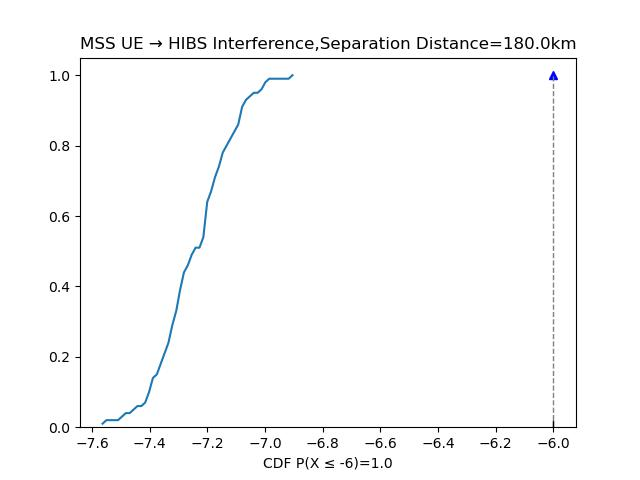
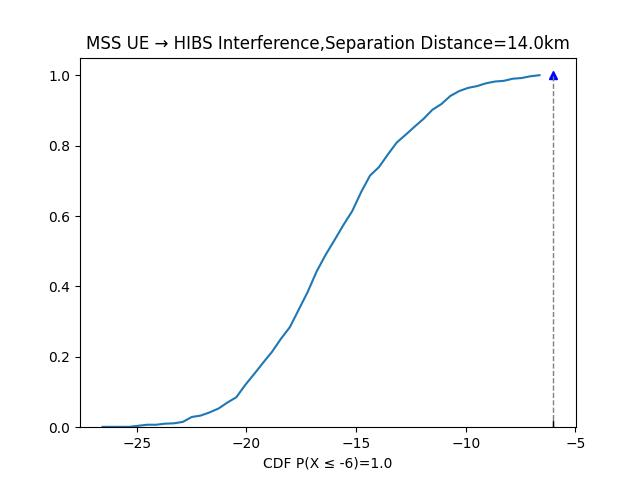
更新议题1.12仿真

diff --git a/MSS_UE_to_IMT_UE_Interference.py b/MSS_UE_to_IMT_UE_Interference.py
@@ -1,0 +1,188 @@
+import numpy as np
+import matplotlib.pyplot as plt
+
+
+plt.rcParams['font.sans-serif'] = ['SimHei', 'Microsoft YaHei', 'WenQuanYi Zen Hei', 'Arial Unicode MS']  # 中文字体
+plt.rcParams['axes.unicode_minus'] = False
+# ================= 参数配置（同前） =================
+NUM_MSS_USERS = 1
+R_AREA = 8.7
+FREQ_GHZ = 2.0
+NOISE_DENSITY_DBM = -111.0
+BANDWIDTH_MHZ = 1.0
+NOISE_FLOOR = NOISE_DENSITY_DBM + 10 * np.log10(BANDWIDTH_MHZ)
+TARGET_IN_RATIO_DB = -6.0
+MAX_ITERATIONS = 500
+STEP_SIZE_KM_INIT = 0.8
+STEP_DECAY = 0.98
+
+MSS_TX_POWER_DBM = 33.4
+MSS_ANT_GAIN_DB = -0
+IMT_RX_ANT_GAIN_DB = -3.0
+BODY_LOSS_DB = 4.0
+CABLE_LOSS_DB = 0.0
+
+RANDOM_SEED = 42
+np.random.seed(RANDOM_SEED)
+
+# ================= 传播模型（同前） =================
+def free_space_path_loss(d_km, f_ghz):
+    f_mhz = f_ghz * 1000
+    if d_km < 0.001:
+        d_km = 0.001
+    return 32.44 + 20 * np.log10(d_km) + 20 * np.log10(f_mhz)
+
+def clutter_loss(f_ghz, p, d_km):
+    return 10 + 0.5 * f_ghz + 2 * np.log10(max(d_km, 0.01))
+
+def calculate_single_interference(dist_km):
+    pl = free_space_path_loss(dist_km, FREQ_GHZ)
+    cl = clutter_loss(FREQ_GHZ, 0.5, dist_km)
+    return (MSS_TX_POWER_DBM + MSS_ANT_GAIN_DB + IMT_RX_ANT_GAIN_DB
+            - pl - cl - BODY_LOSS_DB - CABLE_LOSS_DB)
+
+# ================= 评估函数 =================
+def evaluate_position(imt_x, imt_y, n_samples=1000):
+    """
+    在给定 IMT 位置，生成 n_samples 组随机 MSS 用户，
+    返回每个样本的聚合干扰 I/N (dB)
+    """
+    in_ratios = []
+    for _ in range(n_samples):
+        # 生成一组 MSS 用户位置
+        angles = np.random.uniform(0, 2*np.pi, NUM_MSS_USERS)
+        radii = np.sqrt(np.random.uniform(0, 1, NUM_MSS_USERS)) * R_AREA
+        mss_x = radii * np.cos(angles)
+        mss_y = radii * np.sin(angles)
+        # 计算距离
+        dists = np.sqrt((mss_x - imt_x)**2 + (mss_y - imt_y)**2)
+        dists = np.maximum(dists, 0.001)
+        # 计算每个用户干扰
+        inters = [calculate_single_interference(d) for d in dists]
+        # 聚合
+        if NUM_MSS_USERS == 1:
+            total_interf = inters[0]
+        else:
+            total_interf = 10 * np.log10(np.sum(10 ** (np.array(inters)/10.0)))
+        in_ratio = total_interf - NOISE_FLOOR
+        in_ratios.append(in_ratio)
+    return np.array(in_ratios)
+
+# ================= 主仿真（鲁棒版） =================
+def run_simulation_robust():
+    print("=== MSS -> IMT 干扰仿真 (鲁棒判据：1000个样本全部达标) ===")
+    print(f"MSS用户数: {NUM_MSS_USERS}, 区域半径: {R_AREA} km")
+    print(f"噪声基底: {NOISE_FLOOR:.2f} dBm, 目标 I/N: {TARGET_IN_RATIO_DB} dB")
+
+    # 初始 IMT 位置
+    imt_x = R_AREA
+    imt_y = 0.0
+    trajectory = [(imt_x, imt_y)]
+
+    step_size = STEP_SIZE_KM_INIT
+    best_result = None   # 记录最接近达标的位置 (以防达到最大迭代)
+
+    for i in range(MAX_ITERATIONS):
+        # 评估当前位置的 1000 个样本
+        in_ratios = evaluate_position(imt_x, imt_y, n_samples=1000)
+
+        # 判断是否全部达标
+        all_pass = np.all(in_ratios <= TARGET_IN_RATIO_DB)
+        max_in = np.max(in_ratios)
+
+        if i % 20 == 0:
+            print(f"Iter {i}: pos=({imt_x:.2f}, {imt_y:.2f}), "
+                  f"max I/N={max_in:.2f} dB, pass rate={np.mean(in_ratios <= TARGET_IN_RATIO_DB)*100:.1f}%")
+
+        if all_pass:
+            print(f"\n达标! 迭代次数: {i+1}, 移动距离: {np.sqrt((imt_x-R_AREA)**2 + imt_y**2):.2f} km")
+            return imt_x, imt_y, in_ratios, trajectory
+
+        # 保存当前最佳 (如果达标率更高)
+        if best_result is None or np.mean(in_ratios <= TARGET_IN_RATIO_DB) > np.mean(best_result[2] <= TARGET_IN_RATIO_DB):
+            best_result = (imt_x, imt_y, in_ratios)
+
+        # ---- 移动策略 ----
+        # 为了移动方向，我们依然使用当前固定采样的一组 MSS 位置？为了稳定性，我们可以取最后评估的一组位置来求质心
+        angles_fixed = np.random.uniform(0, 2*np.pi, NUM_MSS_USERS)
+        radii_fixed = np.sqrt(np.random.uniform(0, 1, NUM_MSS_USERS)) * R_AREA
+        mss_x_fixed = radii_fixed * np.cos(angles_fixed)
+        mss_y_fixed = radii_fixed * np.sin(angles_fixed)
+        centroid_x = np.mean(mss_x_fixed)
+        centroid_y = np.mean(mss_y_fixed)
+        dir_x = imt_x - centroid_x
+        dir_y = imt_y - centroid_y
+        norm = np.sqrt(dir_x**2 + dir_y**2)
+        if norm < 1e-6:
+            dir_x, dir_y = 1.0, 0.0
+        else:
+            dir_x /= norm
+            dir_y /= norm
+
+        imt_x += step_size * dir_x
+        imt_y += step_size * dir_y
+        # 边界限制
+        max_bound = 10 * R_AREA
+        imt_x = np.clip(imt_x, -max_bound, max_bound)
+        imt_y = np.clip(imt_y, -max_bound, max_bound)
+
+        trajectory.append((imt_x, imt_y))
+        step_size *= STEP_DECAY
+        if step_size < 0.01:
+            step_size = 0.01
+
+    # 未完全达标，输出最佳结果
+    print("\n警告: 达到最大迭代次数，未找到100%达标位置，输出最佳结果（最高达标率）")
+    bx, by, best_in = best_result
+    return bx, by, best_in, trajectory
+
+# ================= 绘图函数 =================
+def plot_results_robust(trajectory, in_ratios_final):
+    """
+    绘制轨迹和 I/N 的 CDF (此时所有点应 <= -6dB)
+    """
+    fig, (ax1, ax2) = plt.subplots(1, 2, figsize=(14, 5))
+
+    # 轨迹
+    traj_x = [p[0] for p in trajectory]
+    traj_y = [p[1] for p in trajectory]
+    ax1.plot(traj_x, traj_y, 'o-', markersize=4, linewidth=1.5, label='IMT trajectory')
+    ax1.scatter([traj_x[0]], [traj_y[0]], color='green', s=80, label='Start')
+    ax1.scatter([traj_x[-1]], [traj_y[-1]], color='red', s=80, label='End')
+    ax1.set_xlabel('x (km)')
+    ax1.set_ylabel('y (km)')
+    ax1.set_title('IMT 移动轨迹')
+    ax1.grid(True)
+    ax1.legend()
+    ax1.axis('equal')
+
+    # CDF of I/N
+    sorted_in = np.sort(in_ratios_final)
+    cdf = np.arange(1, len(sorted_in)+1) / len(sorted_in)
+    ax2.plot(sorted_in, cdf, linewidth=2, label='I/N CDF')
+
+
+    ax2.axvline(x=-6.0, color='g', linestyle=':', linewidth=2, label='I/N = -6 dB')
+    ax2.text(-6.0, 0.5, 'I/N = -6 dB', rotation=90, verticalalignment='center',
+             color='g', fontsize=10, bbox=dict(boxstyle='round', facecolor='white', alpha=0.7))
+    ax2.set_xlabel('I/N (dB)')
+    ax2.set_ylabel('Cumulative Probability')
+    ax2.set_title(f'干扰 I/N 的 CDF (100% 样本达标)')
+    ax2.grid(True)
+    ax2.legend()
+
+    plt.tight_layout()
+    plt.savefig('MSS_IMT_Robust_CDF.png', dpi=150)
+    plt.show()
+
+# ================= 主程序 =================
+if __name__ == "__main__":
+    # 运行鲁棒仿真
+    final_x, final_y, in_ratios, traj = run_simulation_robust()
+    # 此时 in_ratios 已经是 1000 个样本，且全部达标
+    print(f"\n最终位置: ({final_x:.2f}, {final_y:.2f}) km")
+    print(f"移动距离: {np.sqrt((final_x-R_AREA)**2 + final_y**2):.2f} km")
+    print(f"达标样本数: {np.sum(in_ratios <= -6.0)} / {len(in_ratios)}")
+
+    # 绘制结果
+    plot_results_robust(traj, in_ratios)

diff --git a/Parm_Simulation.py b/Parm_Simulation.py
@@ -1,5 +1,6 @@
 # 单位，m
-from math import acos, sqrt, pi, floor
+from math import acos, sqrt, pi, floor, ceil
+
 
 def max_terminals_hex(R: float, r: float) -> int:
     """
@@ -21,7 +22,7 @@ def max_terminals_hex(R: float, r: float) -> int:
     # 总终端数 = 1 + 3 * n * (n + 1)
     return 1 + 3 * max_layers * (max_layers + 1)
 
-band = 2010  # 频段
+band = 1900  # 频段
 Satellite_height = 670  # Satellite站高，单位km
 # 同频ACLR=0
 # 邻频IMT基站ACLR=45 IMT终端ACLR=30
@@ -40,17 +41,18 @@ Body_loss=4 #单位db
 
 R = 6371137  # 地球平均半径，单位为m
 # 对于IMT基站卫星的可见半径 单位为m 
-Robservertotarget = acos(R / (R + BS_height)) * R + acos(R / (R + BS_ue_height)) * R
+Robservertotarget = acos(R / (R + BS_ue_height)) * R + acos(R / (R + BS_ue_height)) * R
 print(Robservertotarget)
 # 隔离距离
-SeparationDistance=180000
+SeparationDistance=14000
 Satellite_dis =SeparationDistance+Robservertotarget/2  # Satellite星下点距IMT基站距离，单位m
 # print(Satellite_dis)
 # Satellite_dis = 23000
 # 计算卫星终端的个数
 # 可见面积
 VisibleArea=pi*(Robservertotarget - isdis)**2
-range_SUE_num = floor(VisibleArea * SatelliteUEdensity)  # 向下取整得到整数个数
+# range_SUE_num = floor(VisibleArea * SatelliteUEdensity)  # 向下取整得到整数个数
+range_SUE_num=ceil(VisibleArea * SatelliteUEdensity) # 向上取整得到整数个数
 # range_SUE_num = max_terminals_hex(Robservertotarget,BS_radius)
 # range_SUE_num=1
 # print(VisibleArea)

diff --git a/calculateInterference.py b/calculateInterference.py
@@ -308,11 +308,11 @@ def singleInterference6():
 
     # 计算发射增益A_A_out
     # A_A_out = S580(x) - 23
-    A_A_out = -5
+    A_A_out = 0
 
     # 计算接受增益A_A_get
-    A_A_get = Gain_TxF1336(S_h, S_v)
-    A_A_get = -5
+    # A_A_get = Gain_TxF1336(S_h, S_v)
+    A_A_get = -3
     # 发射增益两个向量的夹角x
     # x1 = calculate_angle(FS_vector, stationary)
     # A_A_get = itu_r_f699_gain(x1,60/100, 2010e6, 19.4)
@@ -328,8 +328,8 @@ def singleInterference6():
     if clossmax < closs:
         closs = clossmax
     # 计算单星干扰Interference
-    interference = 30 + A_A_get + A_A_out - Ploss - ACLR - Body_loss - closs
-    # print(f"卫星UE的位置={Satellite_UE},接收增益 = {A_A_get:.2f}, 路径损耗 = {Ploss:.2f}, 干扰 = {interference:.2f}")
+    interference = 33.4 + A_A_get + A_A_out - Ploss  - Body_loss - closs+4
+    print(f"卫星UE的位置={Satellite_UE},接收增益 = {A_A_get:.2f}, 路径损耗 = {Ploss:.2f}, 干扰 = {interference:.2f}")
     return interference
 
 

diff --git a/main.py b/main.py
@@ -43,10 +43,10 @@ if __name__ == '__main__':
     # plt.show()
     # print(sumInterference(range_SUE_num))
     i=0
-    for i in range(100):
+    for i in range(1000):
         answer = sumInterference(range_SUE_num)
         # x=109#保护标准和I/N差值 IMT基站：109；IMT终端：106
-        x=109+15
+        x=106
         if answer > -500:
             # print(++i)
             InterferenceList.append(answer+x) #绘制I/N的cdf图
